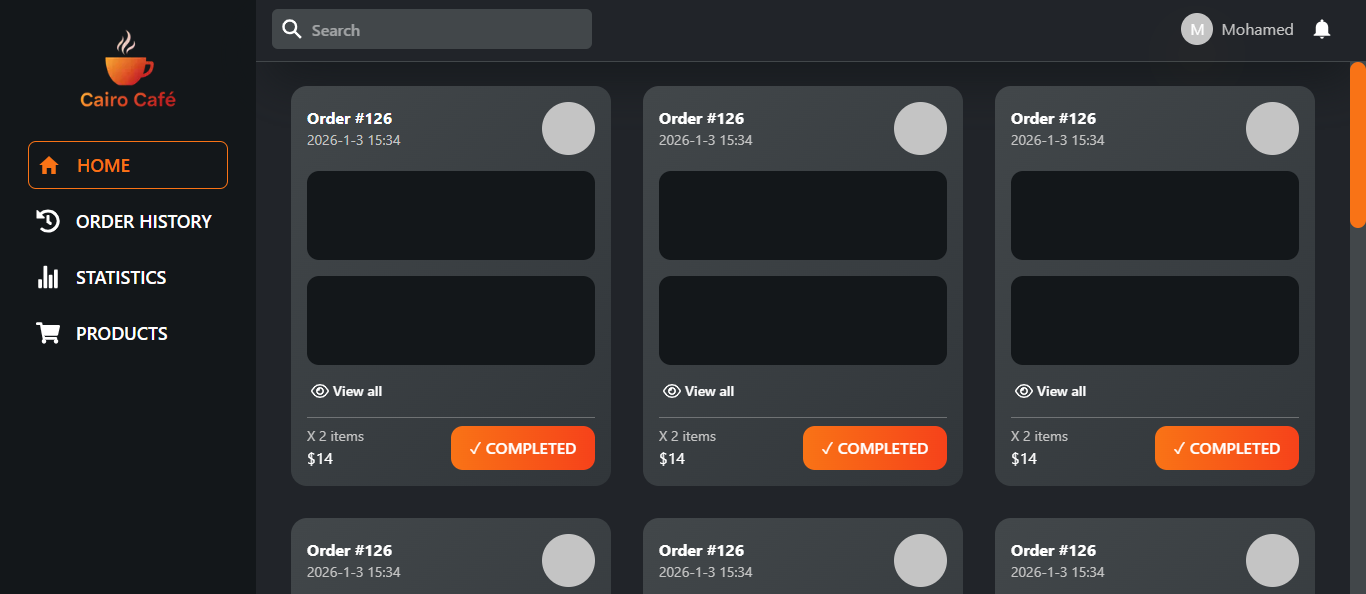
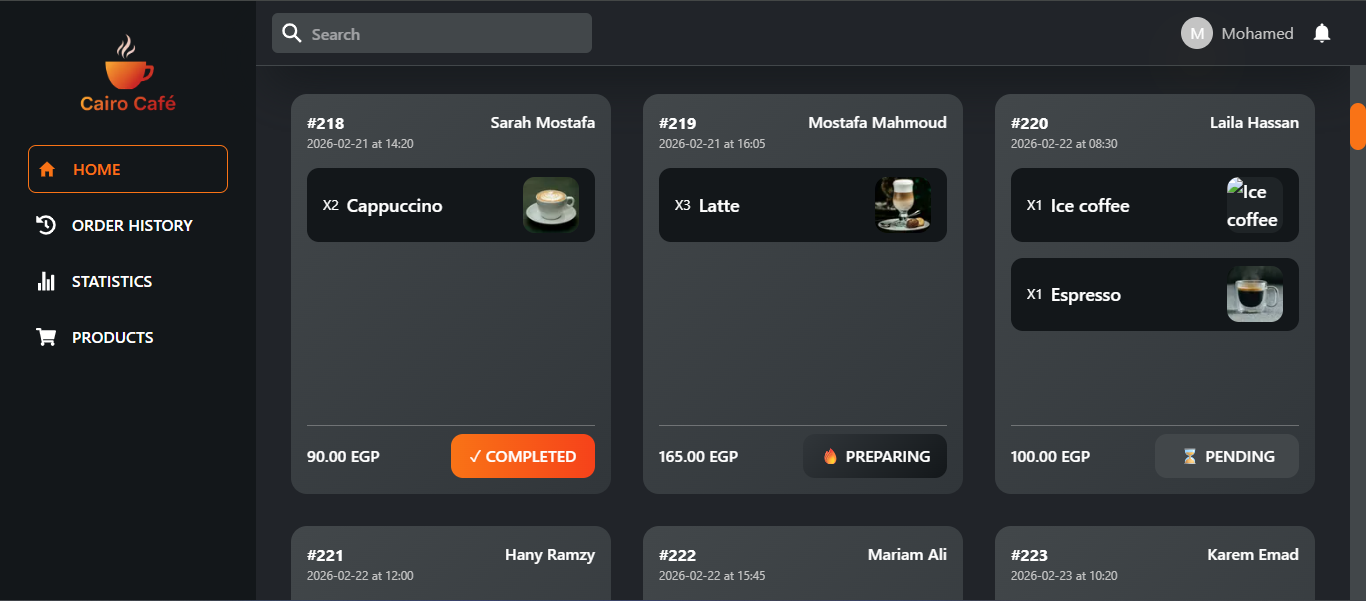
docs: update project screenshots to latest UI version

diff --git a/data/mockProducts.ts b/data/mockProducts.ts
@@ -34,7 +34,7 @@ const mockProducts: Product[] = [
 		name: "Ice coffee",
 		price: 70,
 		isAvailable: true,
-		imagePath: "/images/products/iceCoffee.jpg",
+		imagePath: "/images/products/icecoffee.jpg",
 	},
 ];
 
